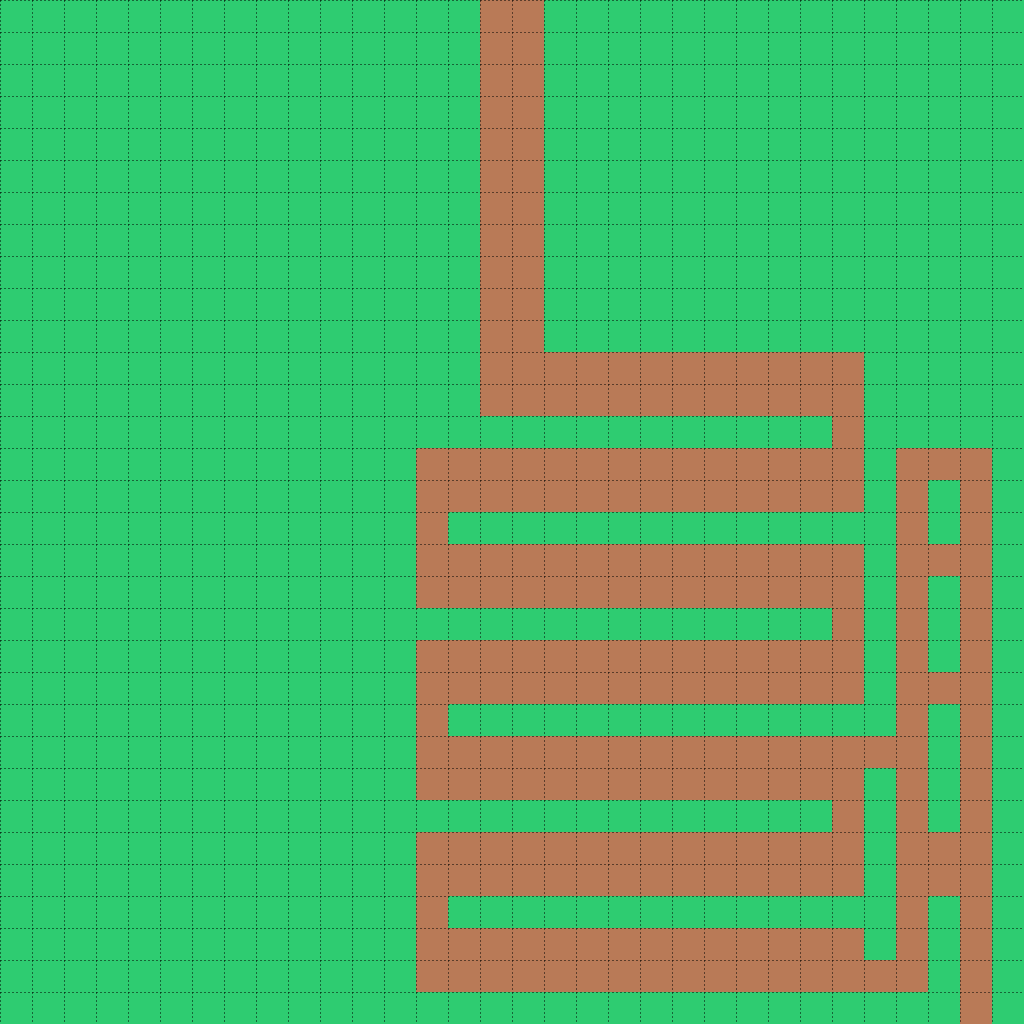
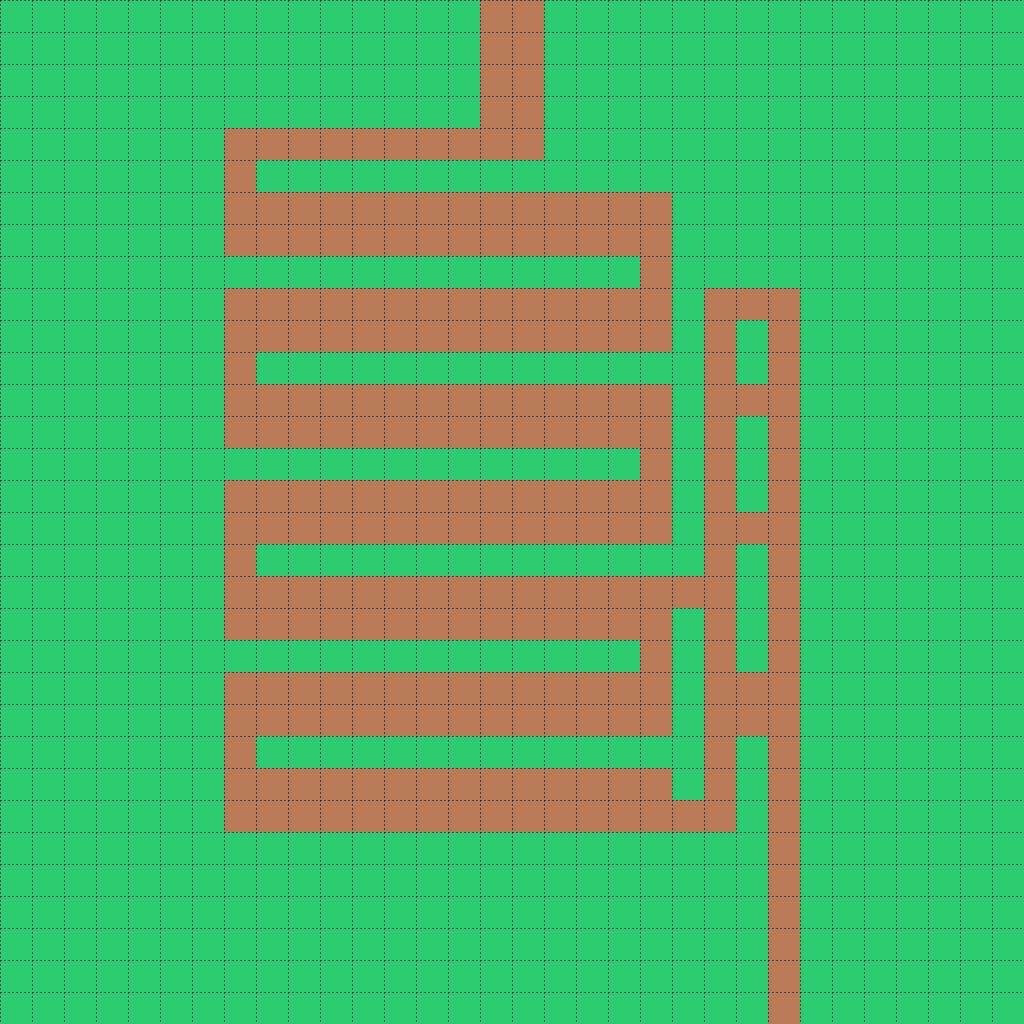
centered lvl 2 tiles

diff --git a/pavo_td/public/game/two/levelTwo.js b/pavo_td/public/game/two/levelTwo.js
@@ -11,7 +11,7 @@
 { "height":32,
  "layers":[
         {
-         "data":[23, 17, 22, 30, 26, 22, 23, 23, 30, 29, 22, 24, 30, 22, 21, 12, 7, 23, 18, 30, 18, 21, 21, 17, 21, 22, 23, 32, 31, 32, 26, 23, 27, 17, 32, 20, 29, 17, 24, 17, 22, 28, 31, 28, 23, 27, 26, 14, 10, 28, 27, 21, 29, 23, 23, 23, 28, 19, 21, 29, 28, 21, 22, 24, 30, 25, 30, 26, 23, 21, 29, 31, 24, 22, 32, 32, 32, 25, 18, 11, 9, 32, 24, 23, 23, 21, 32, 32, 21, 23, 19, 23, 30, 20, 24, 24, 23, 19, 23, 26, 19, 22, 29, 26, 25, 30, 24, 22, 24, 22, 28, 4, 11, 28, 32, 24, 19, 21, 29, 32, 32, 17, 32, 32, 22, 23, 28, 23, 17, 20, 22, 21, 23, 21, 25, 29, 30, 26, 20, 31, 19, 23, 17, 14, 4, 17, 21, 24, 28, 20, 20, 31, 20, 28, 21, 23, 27, 17, 32, 30, 23, 28, 29, 32, 19, 23, 26, 25, 17, 32, 18, 26, 18, 26, 25, 6, 8, 24, 29, 21, 24, 26, 17, 30, 23, 17, 29, 23, 30, 29, 20, 18, 29, 28, 25, 17, 24, 27, 24, 21, 31, 17, 28, 31, 20, 30, 29, 6, 15, 22, 20, 17, 30, 25, 22, 20, 17, 19, 17, 32, 19, 17, 28, 32, 23, 32, 24, 31, 26, 25, 26, 18, 22, 22, 17, 19, 32, 32, 21, 1, 14, 32, 17, 17, 32, 27, 19, 31, 31, 20, 19, 22, 21, 27, 26, 27, 22, 26, 32, 24, 31, 27, 32, 27, 25, 17, 32, 21, 19, 23, 30, 9, 3, 26, 23, 32, 26, 25, 19, 29, 28, 28, 30, 26, 30, 25, 18, 17, 19, 24, 18, 17, 17, 20, 21, 27, 20, 20, 26, 25, 28, 23, 31, 7, 16, 17, 17, 22, 22, 30, 26, 23, 28, 26, 22, 27, 18, 28, 26, 21, 22, 27, 18, 24, 25, 24, 27, 29, 32, 19, 26, 30, 21, 26, 26, 2, 4, 26, 29, 19, 31, 28, 17, 17, 25, 24, 25, 18, 29, 32, 17, 22, 31, 20, 22, 22, 28, 25, 20, 20, 30, 32, 30, 31, 25, 22, 26, 6, 3, 3, 1, 10, 14, 15, 14, 14, 4, 4, 5, 17, 29, 26, 27, 28, 18, 31, 28, 28, 20, 22, 26, 32, 27, 18, 18, 18, 30, 21, 17, 15, 14, 6, 5, 15, 3, 3, 2, 2, 14, 8, 11, 19, 25, 26, 31, 32, 23, 31, 29, 27, 17, 22, 31, 25, 29, 24, 32, 26, 25, 28, 18, 30, 22, 29, 20, 24, 18, 24, 29, 19, 24, 31, 13, 24, 25, 21, 27, 25, 28, 26, 21, 23, 26, 18, 28, 28, 21, 27, 19, 27, 31, 7, 4, 9, 2, 15, 15, 14, 1, 8, 11, 12, 13, 5, 15, 21, 3, 11, 16, 19, 20, 23, 25, 17, 32, 26, 26, 17, 18, 27, 25, 26, 27, 3, 3, 10, 4, 16, 4, 7, 5, 2, 4, 1, 13, 13, 15, 32, 12, 32, 6, 25, 21, 21, 32, 31, 21, 18, 28, 31, 31, 23, 21, 18, 25, 4, 27, 19, 26, 21, 21, 25, 27, 17, 23, 26, 27, 23, 17, 25, 16, 26, 9, 22, 27, 23, 19, 17, 27, 28, 25, 28, 26, 28, 27, 28, 32, 2, 14, 13, 1, 7, 15, 2, 3, 4, 2, 10, 2, 10, 12, 18, 10, 12, 8, 32, 25, 24, 19, 22, 24, 30, 32, 19, 25, 20, 28, 30, 17, 8, 14, 15, 2, 6, 8, 16, 12, 12, 9, 11, 11, 15, 14, 22, 1, 25, 2, 32, 24, 26, 28, 18, 22, 29, 25, 30, 27, 17, 18, 23, 25, 28, 26, 21, 24, 29, 20, 30, 19, 19, 30, 19, 26, 28, 3, 32, 6, 28, 12, 31, 30, 18, 28, 25, 28, 32, 20, 22, 31, 26, 24, 23, 27, 12, 16, 11, 1, 11, 1, 9, 9, 8, 1, 16, 3, 10, 1, 26, 11, 29, 1, 30, 27, 21, 32, 29, 32, 32, 20, 29, 27, 17, 31, 18, 28, 12, 10, 8, 13, 12, 16, 4, 11, 15, 10, 15, 9, 8, 8, 17, 3, 10, 9, 31, 24, 20, 19, 31, 25, 19, 28, 29, 27, 28, 28, 30, 27, 16, 29, 20, 32, 21, 17, 21, 24, 23, 23, 25, 21, 21, 31, 18, 14, 21, 12, 26, 23, 32, 27, 32, 24, 25, 25, 28, 30, 25, 21, 19, 28, 10, 9, 8, 3, 13, 16, 2, 10, 8, 6, 13, 5, 3, 7, 14, 14, 19, 7, 20, 24, 29, 19, 20, 22, 23, 29, 30, 21, 24, 27, 25, 31, 16, 13, 8, 16, 9, 11, 3, 14, 1, 13, 11, 7, 3, 10, 28, 10, 31, 9, 22, 25, 27, 32, 18, 17, 19, 22, 28, 17, 20, 20, 29, 24, 21, 24, 17, 26, 25, 31, 30, 23, 19, 18, 19, 31, 18, 11, 21, 12, 32, 13, 24, 23, 25, 17, 27, 19, 26, 31, 24, 23, 32, 32, 22, 26, 1, 1, 1, 1, 1, 1, 2, 4, 7, 2, 4, 13, 3, 3, 17, 14, 7, 8, 23, 26, 25, 21, 21, 23, 20, 19, 18, 18, 30, 25, 29, 26, 1, 1, 1, 1, 1, 1, 15, 13, 11, 11, 10, 9, 16, 11, 31, 1, 8, 2, 19, 28, 19, 32, 24, 25, 27, 24, 28, 18, 31, 20, 25, 23, 1, 21, 31, 22, 19, 20, 26, 28, 18, 19, 25, 32, 28, 26, 17, 3, 29, 11, 24, 30, 19, 21, 22, 24, 28, 19, 28, 29, 18, 28, 25, 30, 1, 1, 1, 1, 1, 1, 7, 5, 16, 1, 5, 3, 4, 1, 32, 12, 30, 9, 17, 27, 28, 26, 30, 27, 19, 21, 18, 27, 20, 22, 29, 24, 1, 1, 1, 1, 1, 1, 12, 11, 14, 1, 12, 3, 11, 15, 1, 10, 30, 15, 22, 20, 25, 24, 31, 32, 31, 19, 20, 19, 21, 30, 28, 18, 32, 29, 18, 24, 31, 18, 22, 31, 30, 27, 19, 18, 23, 27, 26, 22, 26, 16, 29],
+         "data":[23, 17, 22, 30, 26, 22, 23, 23, 30, 29, 22, 24, 30, 22, 21, 12, 7, 23, 18, 30, 18, 21, 21, 17, 21, 22, 23, 32, 31, 32, 26, 23, 27, 17, 32, 20, 29, 17, 24, 17, 22, 28, 31, 28, 23, 27, 26, 14, 10, 28, 27, 21, 29, 23, 23, 23, 28, 19, 21, 29, 28, 21, 22, 24, 30, 25, 30, 26, 23, 21, 29, 31, 24, 22, 32, 32, 32, 25, 18, 11, 9, 32, 24, 23, 23, 21, 32, 32, 21, 23, 19, 23, 30, 20, 24, 24, 23, 19, 23, 26, 19, 22, 29, 26, 25, 30, 24, 22, 24, 22, 28, 4, 11, 28, 32, 24, 19, 21, 29, 32, 32, 17, 32, 32, 22, 23, 28, 23, 17, 20, 22, 21, 23, 21, 25, 6, 14, 3, 16, 3, 15, 12, 5, 14, 4, 17, 21, 24, 28, 20, 20, 31, 20, 28, 21, 23, 27, 17, 32, 30, 23, 28, 29, 32, 19, 30, 21, 8, 27, 30, 20, 26, 29, 19, 31, 28, 17, 17, 25, 24, 25, 18, 29, 32, 17, 22, 29, 23, 30, 29, 20, 18, 29, 28, 25, 17, 24, 31, 25, 15, 16, 6, 3, 3, 1, 10, 14, 15, 14, 14, 4, 4, 5, 17, 29, 26, 27, 28, 17, 32, 19, 17, 28, 32, 23, 32, 24, 31, 26, 18, 30, 9, 2, 15, 14, 6, 5, 15, 3, 3, 2, 2, 14, 8, 11, 19, 25, 26, 31, 32, 19, 22, 21, 27, 26, 27, 22, 26, 32, 24, 31, 26, 25, 28, 18, 30, 22, 29, 20, 24, 18, 24, 29, 19, 24, 31, 13, 24, 25, 21, 27, 25, 30, 26, 30, 25, 18, 17, 19, 24, 18, 17, 17, 27, 31, 7, 4, 9, 2, 15, 15, 14, 1, 8, 11, 12, 13, 5, 15, 21, 3, 11, 16, 19, 22, 27, 18, 28, 26, 21, 22, 27, 18, 24, 25, 26, 27, 3, 3, 10, 4, 16, 4, 7, 5, 2, 4, 1, 13, 13, 15, 32, 12, 32, 6, 25, 23, 30, 25, 30, 24, 23, 31, 20, 22, 22, 28, 18, 25, 4, 27, 19, 26, 21, 21, 25, 27, 17, 23, 26, 27, 23, 17, 25, 16, 26, 9, 22, 20, 18, 18, 27, 24, 21, 18, 31, 28, 28, 20, 28, 32, 2, 14, 13, 1, 7, 15, 2, 3, 4, 2, 10, 2, 10, 12, 18, 10, 12, 8, 32, 27, 19, 18, 19, 25, 28, 23, 31, 29, 27, 17, 30, 17, 8, 14, 15, 2, 6, 8, 16, 12, 12, 9, 11, 11, 15, 14, 22, 1, 25, 2, 32, 26, 30, 22, 22, 30, 22, 28, 26, 21, 23, 26, 23, 25, 28, 26, 21, 24, 29, 20, 30, 19, 19, 30, 19, 26, 28, 3, 32, 6, 28, 12, 31, 24, 28, 28, 30, 32, 21, 20, 23, 25, 17, 32, 23, 27, 12, 16, 11, 1, 11, 1, 9, 9, 8, 1, 16, 3, 10, 1, 26, 11, 29, 1, 30, 24, 19, 29, 18, 19, 32, 21, 21, 32, 31, 21, 18, 28, 12, 10, 8, 13, 12, 16, 4, 11, 15, 10, 15, 9, 8, 8, 17, 3, 10, 9, 31, 26, 27, 18, 32, 26, 25, 27, 23, 19, 17, 27, 30, 27, 16, 29, 20, 32, 21, 17, 21, 24, 23, 23, 25, 21, 21, 31, 18, 14, 21, 12, 26, 21, 30, 31, 18, 27, 22, 25, 24, 19, 22, 24, 19, 28, 10, 9, 8, 3, 13, 16, 2, 10, 8, 6, 13, 5, 3, 7, 14, 14, 19, 7, 20, 26, 30, 25, 25, 31, 21, 24, 26, 28, 18, 22, 25, 31, 16, 13, 8, 16, 9, 11, 3, 14, 1, 13, 11, 7, 3, 10, 28, 10, 31, 9, 22, 22, 26, 20, 18, 27, 24, 30, 18, 28, 25, 28, 29, 24, 21, 24, 17, 26, 25, 31, 30, 23, 19, 18, 19, 31, 18, 11, 21, 12, 32, 13, 24, 32, 28, 24, 23, 29, 25, 27, 21, 32, 29, 32, 22, 26, 1, 1, 1, 1, 1, 1, 2, 4, 7, 2, 4, 13, 3, 3, 17, 14, 7, 8, 23, 27, 26, 26, 25, 28, 23, 24, 20, 19, 31, 25, 29, 26, 1, 1, 1, 1, 1, 1, 15, 13, 11, 11, 10, 9, 16, 11, 31, 1, 8, 2, 19, 17, 23, 23, 17, 28, 18, 23, 32, 27, 32, 24, 25, 23, 1, 21, 31, 22, 19, 20, 26, 28, 18, 19, 25, 32, 28, 26, 17, 3, 29, 11, 24, 28, 19, 28, 24, 30, 26, 24, 29, 19, 20, 22, 25, 30, 1, 1, 1, 1, 1, 1, 7, 5, 16, 1, 5, 3, 4, 1, 32, 12, 30, 9, 17, 26, 28, 24, 23, 29, 25, 25, 27, 32, 18, 17, 29, 24, 1, 1, 1, 1, 1, 1, 12, 11, 14, 1, 12, 3, 11, 15, 1, 10, 30, 15, 22, 31, 25, 19, 22, 32, 27, 23, 25, 17, 27, 19, 28, 18, 32, 29, 18, 24, 31, 18, 22, 31, 30, 27, 19, 18, 23, 27, 26, 22, 26, 16, 29, 30, 31, 22, 28, 32, 26, 26, 25, 21, 21, 23, 20, 19, 18, 18, 30, 25, 23, 28, 30, 25, 30, 32, 23, 23, 31, 22, 17, 17, 29, 11, 26, 26, 20, 19, 17, 19, 17, 28, 19, 32, 24, 25, 27, 24, 28, 18, 31, 20, 25, 32, 17, 17, 25, 32, 23, 20, 26, 21, 27, 18, 31, 3, 26, 28, 20, 30, 19, 22, 30, 30, 19, 21, 22, 24, 28, 19, 28, 29, 18, 28, 20, 21, 18, 25, 23, 18, 21, 31, 20, 19, 19, 31, 19, 9, 28, 29, 26, 28, 17, 30, 26, 27, 28, 26, 30, 27, 19, 21, 18, 27, 20, 22, 19, 21, 29, 20, 30, 20, 30, 22, 31, 29, 28, 26, 27, 16, 18, 19, 28, 28, 27, 20, 18, 20, 25, 24, 31, 32, 31, 19, 20, 19, 21, 30, 29, 18, 21, 20, 25, 21, 26, 23, 18, 30, 19, 21, 23, 12, 24, 22, 26, 26, 26, 19, 22],
          "height":32,
          "name":"Tile Layer 1",
          "opacity":1,
